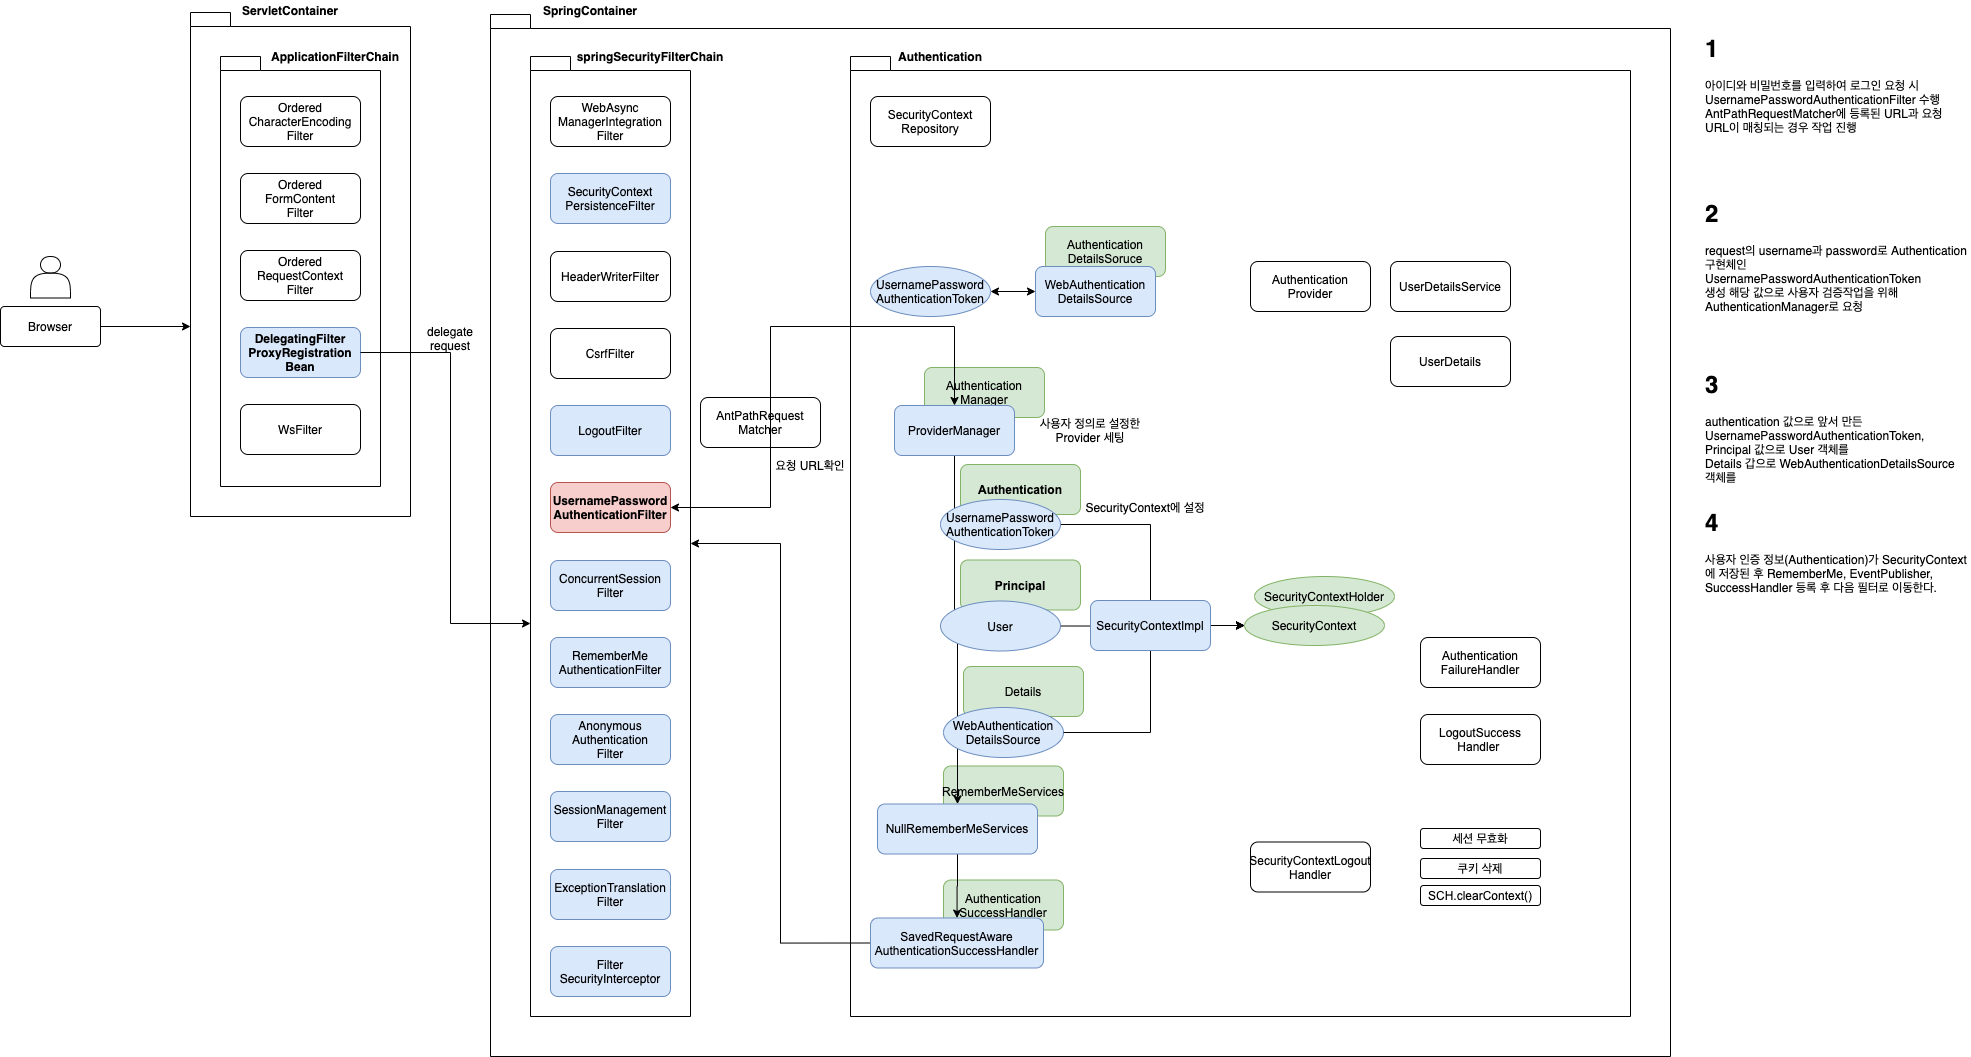
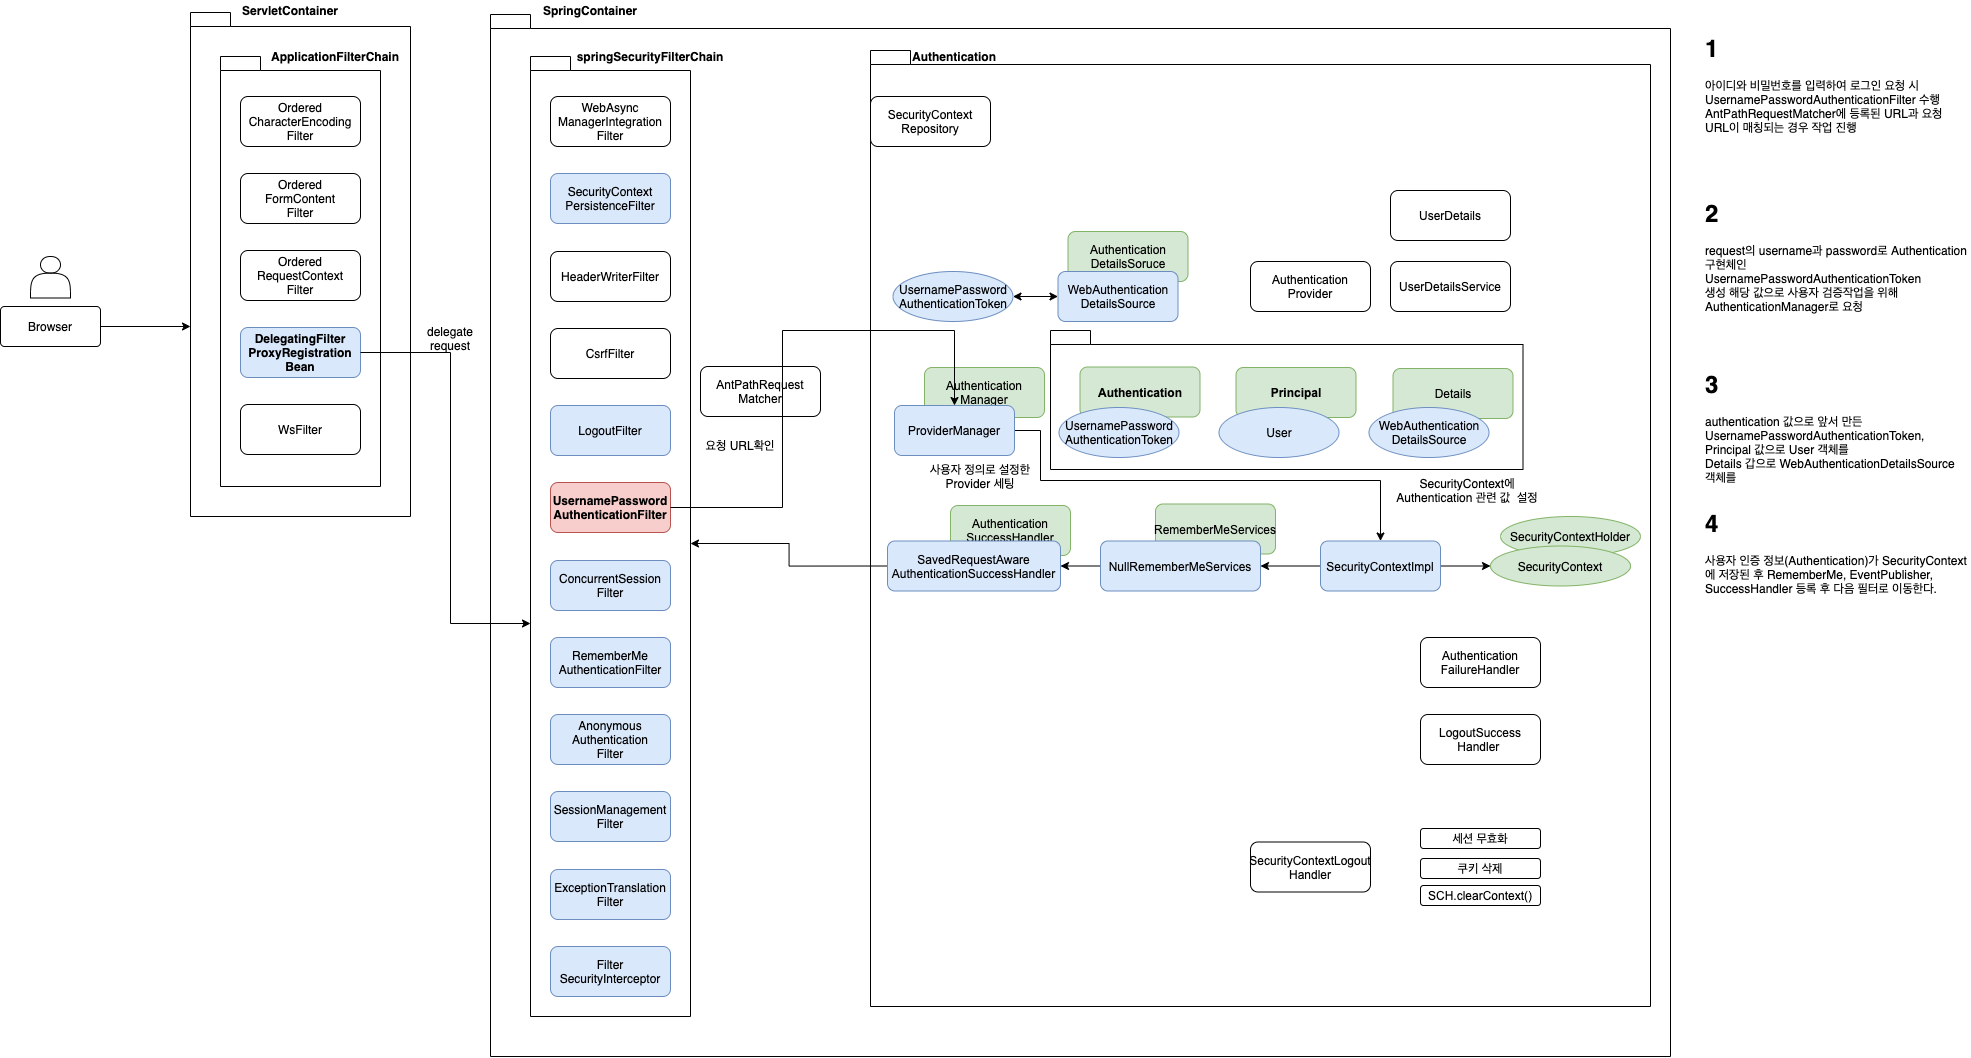
[2.1.9 RememberMeFilter] flow 정리

diff --git a/docs/lecture/2.security-basic.md b/docs/lecture/2.security-basic.md
@@ -143,15 +143,13 @@
         - 쿠키 존재 시 쿠키 무효화
 
 - 로그인 시 세션 생성 플로우
-    - 
-
 - JSESSIONID 삭제 시 remember-me 쿠키가 인증 토큰을 재발급 하는 플로우
-
+![RememberMe Flow](/docs/img/flow/flow_RememberMe.png)
 
 ### 2.1.9. RememberMeAuthenticationFilter
 
 - remember-me 발급 플로우
-    - 
+![RememberMeFilter Flow](/docs/img/flow/flow_RememberMeFilter.png)
 
 - Remember-Me가 존재하는 경우 JSESSIONID가 유실되는 경우에도 인증처리가 가능
     - SpringSecurity의 RememberMeAuthenticationFilter 에서 request Header에 Cookie를 확인하여 userId와 userPw값으로 user 객체를 얻어 인증처리 해버림
